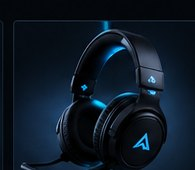
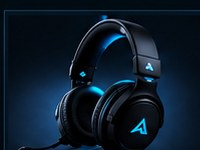
Add files via upload

diff --git a/styles.css b/styles.css
@@ -1,1 +1,1 @@
-*{box-sizing:border-box}html{scroll-behavior:smooth}body{margin:0;background:#03080d;color:#f5f8fb;font-family:Arial,sans-serif}a{color:inherit;text-decoration:none}header{height:72px;display:flex;align-items:center;padding:0 4%;border-bottom:1px solid #183044;background:#02070b;position:sticky;top:0;z-index:5}.brand{font-size:20px;font-weight:900;letter-spacing:1px}.brand span,em{color:#00b9ff;font-style:normal}nav{margin:auto;display:flex;gap:38px;font-size:12px;font-weight:800}.bag{background:transparent;border:1px solid #315064;color:white;padding:12px 18px}.hero{min-height:510px;display:grid;grid-template-columns:38% 62%;background:#02070b}.heroText{padding:60px 5%}.heroText small,.shop small{letter-spacing:5px;color:#b9d9eb}.hero h1{font-size:61px;line-height:.88;margin:18px 0}.hero p{color:#b6c6d0;line-height:1.5}.heroText>a,.cta a{display:inline-block;background:#00aeef;color:#001018;padding:16px 25px;margin-top:15px;font-weight:900}.heroImg{background:url(hero.jpg) center/cover no-repeat}.perks{display:flex;justify-content:space-around;padding:22px;border-top:1px solid #173247;border-bottom:1px solid #173247;color:#00b9ff}.perks small{display:block;color:#a6b7c2;font-weight:normal;margin-top:5px}.cats{display:grid;grid-template-columns:repeat(6,1fr);border-bottom:1px solid #173247}.cats span{text-align:center;padding:27px 8px;border-right:1px solid #173247;font-size:12px;font-weight:bold}.shop{padding:48px 3%}.title{display:flex;justify-content:space-between;align-items:end}.title h2{font-size:35px;margin:9px 0}.grid{display:grid;grid-template-columns:repeat(6,1fr);gap:12px}.grid article{border:1px solid #18384d;background:#07111a;padding:10px;display:flex;flex-direction:column}.grid img{width:100%;height:155px;object-fit:cover}.grid h3{margin:14px 0 4px}.grid p{color:#a9bbc6;margin:0 0 10px}.grid strong{font-size:20px;margin-top:auto}.grid button{margin-top:13px;padding:12px;background:#00aeef;border:0;font-weight:900;cursor:pointer}.cta{text-align:center;padding:55px;background:linear-gradient(90deg,#07111a,#062b49,#07111a)}footer{padding:35px 4%;border-top:1px solid #18384d}footer span{color:#00b9ff}footer p{color:#8297a5}#toast{position:fixed;right:20px;bottom:20px;background:#00aeef;color:#001018;padding:14px 20px;font-weight:bold;opacity:0;transition:.25s}#toast.show{opacity:1}@media(max-width:900px){nav{display:none}.hero{grid-template-columns:1fr}.heroImg{min-height:320px}.grid{grid-template-columns:repeat(2,1fr)}.cats{grid-template-columns:repeat(2,1fr)}}@media(max-width:520px){.hero h1{font-size:45px}.grid{grid-template-columns:1fr}.perks{flex-direction:column;gap:15px}}
+*{box-sizing:border-box}html{scroll-behavior:smooth}body{margin:0;background:#02080d;color:#f7fbff;font-family:Arial,Helvetica,sans-serif}a{text-decoration:none;color:inherit}header{height:72px;padding:0 4%;display:flex;align-items:center;border-bottom:1px solid #173246;background:#02070b;position:sticky;top:0;z-index:10}.logo{font-size:19px;font-weight:900;letter-spacing:1px}.logo span,.products h2 span,.hero h1 span,.join span{color:#09baff}.mark{display:inline-grid;place-items:center;width:28px;height:28px;margin-right:8px;color:#09baff!important;border:2px solid #09baff;transform:skew(-12deg)}nav{display:flex;gap:40px;margin:auto;font-size:12px;font-weight:800}nav a:hover{color:#09baff}.cart{color:#fff;background:transparent;border:1px solid #31576d;padding:12px 19px;font-weight:800}.hero{min-height:500px;display:grid;grid-template-columns:38% 62%;border-bottom:1px solid #173246}.copy{padding:55px 6%;background:#02080d;display:flex;flex-direction:column;justify-content:center}.eyebrow{letter-spacing:5px;font-size:12px;color:#b6d4e5}.hero h1{font-size:58px;line-height:.88;margin:18px 0}.hero p{color:#b8c8d2;line-height:1.5}.actions{display:flex;gap:12px;margin-top:18px}.actions a{padding:15px 23px;font-weight:900;font-size:13px}.primary{background:#09baff;color:#001018}.secondary{border:1px solid #09baff}.visual{background:url('hero.jpg') center/cover no-repeat;min-width:0}.benefits{display:grid;grid-template-columns:repeat(3,1fr);padding:20px 5%;border-bottom:1px solid #173246;color:#09baff}.benefits div{text-align:center}.benefits small{display:block;color:#b5c4cd;margin-top:5px}.categories{display:grid;grid-template-columns:repeat(6,1fr);border-bottom:1px solid #173246}.categories span{height:78px;display:flex;gap:9px;align-items:center;justify-content:center;border-right:1px solid #173246;font-size:12px}.products{padding:42px 3% 50px}.sectionhead{display:flex;align-items:end;justify-content:space-between;margin-bottom:18px}.sectionhead>div>small{letter-spacing:4px;color:#b9d6e5}.sectionhead h2{font-size:34px;margin:8px 0 0}.sectionhead p{color:#c5d1d8}.grid{display:grid;grid-template-columns:repeat(6,minmax(0,1fr));gap:10px}.grid article{min-width:0;background:#06111a;border:1px solid #1d4056;padding:9px;display:flex;flex-direction:column}.grid img{width:100%;height:145px;object-fit:cover;background:#07111a}.grid h3{font-size:17px;margin:13px 0 4px}.grid p{margin:0 0 6px;color:#d7e3e9}.grid small{color:#8fa5b2;min-height:32px}.grid strong{font-size:19px;margin:13px 0}.grid button{border:0;background:#09baff;color:#001018;font-weight:900;padding:12px;cursor:pointer}.grid button:hover{filter:brightness(1.12)}.join{display:flex;justify-content:space-between;align-items:center;padding:35px 4%;background:linear-gradient(100deg,#05101a,#063254,#05101a);border-top:1px solid #1b4057}.join>div:first-child>b{font-size:22px}.join small{display:block;letter-spacing:4px;color:#7fcdeb;margin-top:5px}.join h2{display:inline;margin-right:20px}.join a{background:#09baff;color:#001018;padding:13px 20px;font-weight:900}footer{padding:25px 4%;color:#8297a5;border-top:1px solid #173246}#toast{position:fixed;right:20px;bottom:20px;background:#09baff;color:#001018;padding:14px 18px;font-weight:900;opacity:0;transform:translateY(10px);transition:.2s;pointer-events:none}#toast.show{opacity:1;transform:none}@media(max-width:1000px){.grid{grid-template-columns:repeat(3,1fr)}.hero h1{font-size:48px}}@media(max-width:720px){header{padding:0 18px}nav{display:none}.logo{font-size:14px}.hero{grid-template-columns:1fr}.copy{padding:45px 25px}.visual{min-height:310px}.benefits{grid-template-columns:1fr;gap:18px}.categories{grid-template-columns:repeat(2,1fr)}.grid{grid-template-columns:repeat(2,1fr)}.sectionhead p{display:none}.join{flex-direction:column;gap:25px;text-align:center}}@media(max-width:470px){.hero h1{font-size:42px}.grid{grid-template-columns:1fr}.grid img{height:210px}.actions{flex-direction:column}.join h2{display:block;margin:0 0 20px}}

diff --git a/index.html b/index.html
@@ -1,17 +1,31 @@
-<!doctype html><html lang="en"><head><meta charset="utf-8"><meta name="viewport" content="width=device-width,initial-scale=1">
-<title>ANALYSISGROUPIT — Gaming</title><link rel="stylesheet" href="styles.css"></head><body>
-<header><a class="brand" href="#">△ ANALYSISGROUP<span>IT</span></a><nav><a href="#">HOME</a><a href="#shop">SHOP</a><a href="#categories">CATEGORIES</a><a href="#about">ABOUT</a></nav><button class="bag">CART (<b id="count">0</b>)</button></header>
-<main>
-<section class="hero"><div class="heroText"><small>GAMING TECHNOLOGY</small><h1>PLAY.<br>COMPETE.<br><em>EVOLVE.</em></h1><p>High-performance gear for a better gaming experience.<br>Designed for players. Built for more.</p><a href="#shop">SHOP NOW →</a></div><div class="heroImg"></div></section>
-<section class="perks"><b>FAST SHIPPING <small>Worldwide</small></b><b>SECURE PAYMENT <small>Shop with confidence</small></b><b>GAMER SUPPORT <small>We're here to help</small></b></section>
-<section id="categories" class="cats"><span>⌨ KEYBOARDS</span><span>◉ MICE</span><span>◖ HEADSETS</span><span>🎮 CONTROLLERS</span><span>▭ MOUSEPADS</span><span>▣ GAMING CHAIRS</span></section>
-<section id="shop" class="shop"><div class="title"><div><small>FEATURED PRODUCTS</small><h2>BUILT FOR <em>PLAY</em></h2></div><p>Performance gear for every setup.</p></div><div class="grid">
-<article><img src="keyboard.jpg"><h3>AGK1 PRO</h3><p>Gaming Keyboard</p><strong>$129</strong><button>Add to cart +</button></article>
-<article><img src="mouse.jpg"><h3>AGM1 ULTRA</h3><p>Gaming Mouse</p><strong>$79</strong><button>Add to cart +</button></article>
-<article><img src="headset.jpg"><h3>AGH1 SURROUND</h3><p>Gaming Headset</p><strong>$99</strong><button>Add to cart +</button></article>
-<article><img src="controller.jpg"><h3>AGC1 ELITE</h3><p>Gaming Controller</p><strong>$69</strong><button>Add to cart +</button></article>
-<article><img src="mousepad.jpg"><h3>AGP1 XL</h3><p>Gaming Mousepad</p><strong>$39</strong><button>Add to cart +</button></article>
-<article><img src="chair.jpg"><h3>AGC2 TITAN</h3><p>Gaming Chair</p><strong>$249</strong><button>Add to cart +</button></article>
+<!doctype html>
+<html lang="en"><head><meta charset="utf-8"><meta name="viewport" content="width=device-width,initial-scale=1">
+<title>ANALYSISGROUPIT Gaming</title><link rel="stylesheet" href="styles.css"></head>
+<body>
+<header><a class="logo" href="#"><span class="mark">A</span> ANALYSISGROUP<span>IT</span></a>
+<nav><a href="#">HOME</a><a href="#shop">SHOP</a><a href="#categories">CATEGORIES</a><a href="#about">ABOUT</a></nav>
+<button class="cart">CART (<b id="count">0</b>)</button></header>
+
+<section class="hero">
+ <div class="copy"><div class="eyebrow">GAMING TECHNOLOGY</div><h1>PLAY.<br>COMPETE.<br><span>EVOLVE.</span></h1>
+ <p>High-performance gear for a better gaming experience.<br>Designed for players. Built for more.</p>
+ <div class="actions"><a class="primary" href="#shop">SHOP NOW →</a><a class="secondary" href="#categories">EXPLORE</a></div></div>
+ <div class="visual"></div>
+</section>
+
+<section class="benefits"><div>▰ <b>FAST SHIPPING</b><small>Worldwide</small></div><div>◇ <b>SECURE PAYMENT</b><small>Shop with confidence</small></div><div>◉ <b>GAMER SUPPORT</b><small>We're here to help</small></div></section>
+<section class="categories" id="categories"><span>⌨<b>KEYBOARDS</b></span><span>◉<b>MICE</b></span><span>◖<b>HEADSETS</b></span><span>✥<b>CONTROLLERS</b></span><span>▭<b>MOUSEPADS</b></span><span>▣<b>GAMING CHAIRS</b></span></section>
+
+<section class="products" id="shop"><div class="sectionhead"><div><small>FEATURED PRODUCTS</small><h2>BUILT FOR <span>PLAY</span></h2></div><p>Performance gear for every setup.</p></div>
+<div class="grid">
+<article><img src="keyboard.jpg"><h3>AGK1 PRO</h3><p>Gaming Keyboard</p><small>Precision, speed and control.</small><strong>$129</strong><button>ADD TO CART +</button></article>
+<article><img src="mouse.jpg"><h3>AGM1 ULTRA</h3><p>Gaming Mouse</p><small>Lightweight. Maximum performance.</small><strong>$79</strong><button>ADD TO CART +</button></article>
+<article><img src="headset.jpg"><h3>AGH1 SURROUND</h3><p>Gaming Headset</p><small>Immersive sound for every battle.</small><strong>$99</strong><button>ADD TO CART +</button></article>
+<article><img src="controller.jpg"><h3>AGC1 ELITE</h3><p>Gaming Controller</p><small>Comfort, precision and control.</small><strong>$69</strong><button>ADD TO CART +</button></article>
+<article><img src="mousepad.jpg"><h3>AGP1 XL</h3><p>Gaming Mousepad</p><small>More space. More accuracy.</small><strong>$39</strong><button>ADD TO CART +</button></article>
+<article><img src="chair.jpg"><h3>AGC2 TITAN</h3><p>Gaming Chair</p><small>Play longer. Game better.</small><strong>$249</strong><button>ADD TO CART +</button></article>
 </div></section>
-<section id="about" class="cta"><h2>JOIN THE GAME</h2><p>PLAY. COMPETE. EVOLVE.</p><a href="#shop">SHOP NOW →</a></section>
-</main><footer><b>ANALYSISGROUP<span>IT</span></b><p>Gaming technology built for play.</p></footer><div id="toast">ADDED TO CART</div><script src="script.js"></script></body></html>
+
+<section class="join" id="about"><div><b>ANALYSISGROUP<span>IT</span></b><small>PLAY. COMPETE. EVOLVE.</small></div><div><h2>JOIN THE GAME</h2><a href="#shop">SHOP NOW →</a></div></section>
+<footer>© 2026 ANALYSISGROUPIT · Gaming technology built for play.</footer>
+<div id="toast">ADDED TO CART ✓</div><script src="script.js"></script></body></html>

diff --git a/script.js b/script.js
@@ -1,1 +1,1 @@
-let n=0;const c=document.getElementById("count"),t=document.getElementById("toast");document.querySelectorAll(".grid button").forEach(b=>b.onclick=()=>{c.textContent=++n;t.classList.add("show");setTimeout(()=>t.classList.remove("show"),1200)});
+let count=0;const el=document.getElementById('count'),toast=document.getElementById('toast');document.querySelectorAll('.grid button').forEach(btn=>btn.addEventListener('click',()=>{el.textContent=++count;toast.classList.add('show');setTimeout(()=>toast.classList.remove('show'),1200)}));

diff --git a/README.md b/README.md
@@ -1,4 +1,12 @@
-# ANALYSISGROUPIT Gaming Store
-Static GitHub Pages storefront. Upload every file directly to the repository root, then use Settings → Pages → Deploy from a branch → main → /(root).
+# ANALYSISGROUPIT Gaming
+
+GitHub Pages ready — no npm, no build step.
+
+Upload every file from this ZIP directly to the repository root.
+
+Then:
+Settings → Pages → Source: Deploy from a branch → main → /(root) → Save
+
+The hero image is intentionally cropped to the gaming setup only, so the HTML headline does not duplicate text.
 
 Product names and prices are demo catalog values until replaced with the final commercial catalog.
